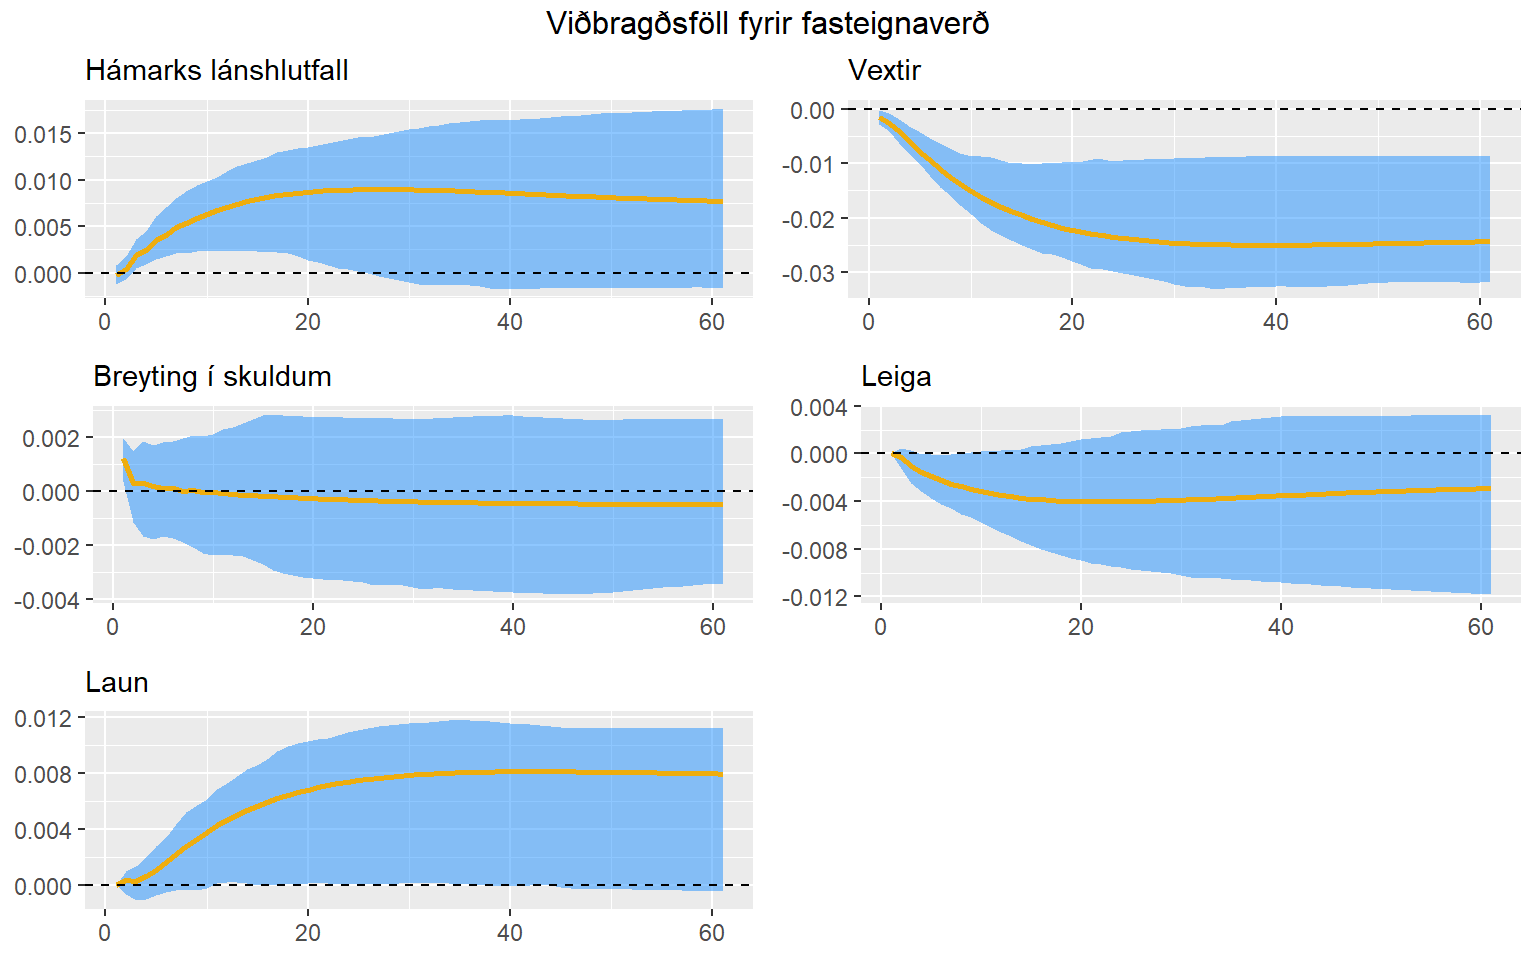
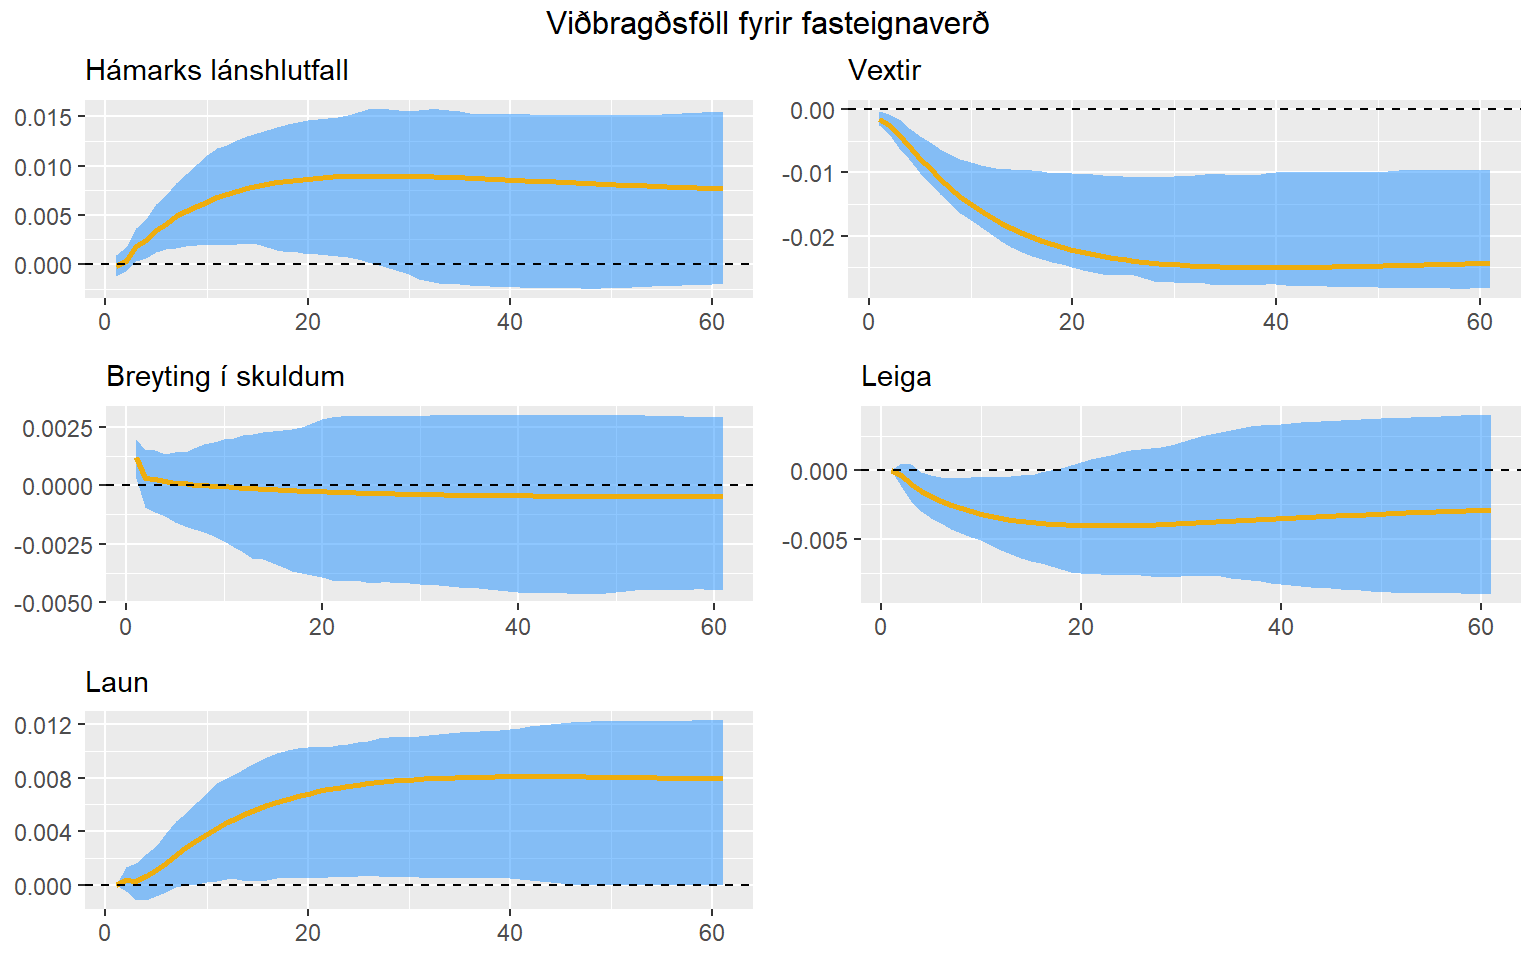
final

diff --git a/content/post/2019-10-26-líkan-af-íbúðarhúsnæði-á-höfuðborgarsvæðinu.html b/content/post/2019-10-26-líkan-af-íbúðarhúsnæði-á-höfuðborgarsvæðinu.html
@@ -1,8 +1,7 @@
 ---
 title: Líkan af íbúðarhúsnæði á höfuðborgarsvæðinu
 author: Viðar
-date: '2019-10-26'
-draft: true
+date: '2020-01-17'
 slug: líkan-af-íbúðarhúsnæði-á-höfuðborgarsvæðinu
 categories:
   - forecast
@@ -18,10 +17,10 @@ topics: []
 <script src="/rmarkdown-libs/kePrint/kePrint.js"></script>
 
 
-<p>Fyrir stuttu síðan tók ég saman gögn um hámarkshlutfall sem íslenskar fjármálastofnanir lána til fasteignakaupa. Hærra lánshlutfall þýðir að fasteignakaupendur þurfa að leggja til minna eigið fé við fasteignakaup en ella. Það gæti aukið eftirspurn eftir fasteignum og þanni þrýst upp verði. Hér að neðan verða gögnin skoðuð og stuðst við tölfræðilíkön, VAR eða VEC (hvort sem hentar betur), til að varpa ljósi á áhrif hærra lánshlutfalls á fasteignaverð. Þá mun ég einnig nota líköknin til að framkvæmar spár næstu 24 mánuðina.</p>
-<div id="gögn" class="section level2">
-<h2>Gögn</h2>
-<p>Gögnin sem ég nota eru fengin úr ólíkum áttum. Allt eru þetta mánaðarleg gögn. Fyrir verð á íbúðarhúsnæði nota ég vísitölu íbúðaverðs á höfuðborgarsvæðinu sem Þjóðskrá gefur út. Þá er ég með upplýsingar um skuldir heimilana sem ég fékk hjá Seðlabanka Íslands. Þetta eru allar skuldir heimila en ekki aðeins húsnæðisskuldir. Ég geng út frá því í greiningunni að þessi tímaröð og sú sem ætti aðeins við um lán til fasteignakaupa séu nátengdar (svo þarf ekki að vera). Þá er ég með upplýsingar um hámarks lánshlutfall sem bankarnir þrír ásamt Íbúðalánasjóði lána til fasteignakaupa, sjá <a href="https://drive.google.com/open?id=1rqTnfF3TyLHb_mClsCPYEfMnhj6oGmCc">hér</a>. Þessum gögnum safnaði ég af <a href="www.vefsafn.is">Vefsafn.is</a>. Ekki voru til samfelldar upplýsingar af vefsvæðum gömlu bankanna og því gat verið að ég hafði upplýsingar um lánshlutfall í október en síðan ekkert fyrr en í febrúar árið eftir. Ef breytingar áttu sér stað á tímabilinu þurfti ég að geta mér til um hvenær þær breytingar áttu sér stað. Athugasemdir um söfnun þessara gagna er að vinna í Excel skjalinu sem ég hlekkjaði á hér að ofan. Þá er ég með lægstu vexti sem eru í boði til fasteignakaupa, útborguð heildarlaun og vísitölu húsaleigu fyrir landið allt. Þetta eru ekki fullkomin gögn, t.d. væri betra að hafa vísitölu leiguhúsnæðis aðeins fyrir höfuðborgarsvæðið og alveg aftur til 1994.</p>
+<p>Fyrir stuttu síðan tók ég saman gögn um hámarkshlutfall sem íslenskar fjármálastofnanir lána til fasteignakaupa. Hærra lánshlutfall þýðir að fasteignakaupendur þurfa að leggja til minna eigið fé við fasteignakaup en ella. Það gæti aukið eftirspurn eftir fasteignum og þannig þrýst upp verði. Hér að neðan verða gögnin skoðuð og stuðst við tölfræðilíkön, VAR eða VEC (hvort sem hentar betur), til að varpa ljósi á áhrif hærra lánshlutfalls á fasteignaverð. Þá mun ég einnig nota líkönin til að framkvæmar spár næstu 24 mánuðina.</p>
+<div id="gögnin" class="section level2">
+<h2>Gögnin</h2>
+<p>Gögnin sem ég nota eru fengin úr nokkrum áttum. Allt eru þetta mánaðarleg gögn. Fyrir verð á íbúðarhúsnæði nota ég vísitölu íbúðaverðs á höfuðborgarsvæðinu sem Þjóðskrá gefur út. Þá er ég með upplýsingar um skuldir heimila sem ég fékk hjá Seðlabanka Íslands. Þetta eru allar skuldir heimila en ekki aðeins húsnæðisskuldir. Ég geng út frá því í greiningunni að þessi tímaröð og sú sem ætti aðeins við um lán til fasteignakaupa séu nátengdar (svo þarf ekki að vera). Þá er ég með upplýsingar um hámarks lánshlutfall sem bankarnir þrír ásamt Íbúðalánasjóði lána til fasteignakaupa, sjá <a href="https://drive.google.com/open?id=1rqTnfF3TyLHb_mClsCPYEfMnhj6oGmCc">hér</a>. Þessum gögnum safnaði ég af <a href="www.vefsafn.is">Vefsafn.is</a>. Ekki voru til samfelldar upplýsingar af vefsvæðum gömlu bankanna og því gat verið að ég væri með upplýsingar um lánshlutfall í október en síðan ekkert fyrr en í febrúar árið eftir. Ef breytingar áttu sér stað á tímabilinu þurfti ég að geta mér til um hvenær þær breytingar áttu sér stað. Athugasemdir um söfnun þessara gagna er að finna í Excel skjalinu sem ég hlekkjaði á hér að ofan. Þá er ég með lægstu vexti sem eru í boði til fasteignakaupa, útborguð heildarlaun og vísitölu húsaleigu fyrir landið allt. Þetta eru ekki fullkomin gögn, t.d. væri betra að hafa vísitölu leiguhúsnæðis aðeins fyrir höfuðborgarsvæðið og alveg aftur til 1994.</p>
 </div>
 <div id="grafísk-greining" class="section level2">
 <h2>Grafísk greining</h2>
@@ -29,8 +28,7 @@ topics: []
 <p><img src="/post/2019-10-26-líkan-af-íbúðarhúsnæði-á-höfuðborgarsvæðinu_files/figure-html/unnamed-chunk-1-1.png" width="768" /></p>
 <p>Næst sýni ég dreifingu eftir hámarks lánshlutfalli. Hér mætti einnig skoða meðallánshlutfall sem lánastofnanir buðu. Ég ákvað þó að fara þá leið í þessari greiningu að nota hæsta hlutfallið sem var í boði á hverjum tíma. Munurinn á hámarkshlutfalli og meðalhlutfalli (banka, lífeyrissjóða og ÍLS) er lítill.<br />
 Ég er almennt ekki hlynntur því að birta gröf sem sýnir samband tveggja breyta þegar vitað er að aðrar breytur kunna að hafa áhrif. Ástæðan er sú að það er auðvelt að sýna jákvætt samband milli tveggja breyta en sambandið hverfur eða jafnvel breytir um formerki við það eitt að taka tillit til þriðju breytunnar. Hér geri ég þó undantekningu með því að sýna hversu mikið fasteignaverð hefur hækkað á mismunandi tímum eftir því hvert hámarkslánshlutfall var.</p>
-<p>Neðangreint graf kallst box-plot. Box plot samanstendur af <em>hinges</em> og <em>whiskers</em>. Hinges eru efri og neðri mörk kassans. Efri mörkin eru efri fjórðungsmörk og neðri mörkin eru neðri fjórðungsmörk dreifingarinnar. Neðri fjórðungsmörk eru skilgreind á þann hátt að 25% gildanna (tólf mánað breyting fasteignaverð í þessu dæmi) eru undir neðri fjórðungsmörkum. Á sama hátt eru 25% gildanna yfir efri fjórðungsmörkunum.<br />
-Whiskers eru lóðréttu strikin sem koma upp úr og niður úr boxinu. Efra strikið nær frá efri mörkum boxins upp í hæsta gildið þó aldrei hærra en 1.5 x IQR (inter quartile range eða bil milli efri og neðri marka boxins), sama á við um neðra strikið. Gildi sem fara út fyrir <em>whiskers</em> kallst útlagar.</p>
+<p><em>Neðangreint graf kallst box-plot. Box plot samanstendur af hinges og whiskers. Hinges eru efri og neðri mörk kassans. Efri mörkin eru efri fjórðungsmörk og neðri mörkin eru neðri fjórðungsmörk dreifingarinnar. Neðri fjórðungsmörk eru skilgreind á þann hátt að 25% gildanna (tólf mánað breyting fasteignaverð í þessu dæmi) eru undir neðri fjórðungsmörkum. Á sama hátt eru 25% gildanna yfir efri fjórðungsmörkunum. Whiskers eru lóðréttu strikin sem koma upp úr og niður úr boxinu. Efra strikið nær frá efri mörkum boxins upp í hæsta gildið þó aldrei hærra en 1.5 x IQR (inter quartile range eða bil milli efri og neðri marka boxins), sama á við um neðra strikið. Gildi sem fara út fyrir whiskers kallst útlagar.</em></p>
 <p><img src="/post/2019-10-26-líkan-af-íbúðarhúsnæði-á-höfuðborgarsvæðinu_files/figure-html/unnamed-chunk-2-1.png" width="768" /></p>
 <p>Út frá myndunum að ofan er hægt að draga þá ályktun að þegar lánshlutfall er hærra, þá er tólf mánaða hækkun fasteignaverðs almennt hærri. Í það minnsta hefur fasteignaverð á höfuðborgarsvæðinu aldrei hækkað meira en 25% yfir tólf mánaða tímabil nema þegar hámarkslánshlutfallið var 100%.</p>
 <p>Gröf ein og sér svara því þó ekki fyllilega hver áhrif hærra lánshlutfalls er á fasteignaverð. Til að fá betra svar sný ég mér að tölfræðilíkönum.</p>
@@ -323,31 +321,31 @@ r = 0 |
 </div>
 <div id="vec-líkan" class="section level1">
 <h1>VEC líkan</h1>
-<p>Fyrir ykkur sem slepptuð ítarefninu þá var niðurstaðan sú að vegna langtímasambands á milli launa og fasteignaverðs annars vegar og leigu og fasteignaverðs hinsvegar, þá væri best að styðjast við VEC líkan.</p>
+<p>Fyrir ykkur sem slepptuð ítarefninu þá var niðurstaðan sú að tvö langtímasambönd eru til staðar. Þar af leiðandi styðst ég við VEC líkan.</p>
 <p><em>Athugið. Gröfin að neðan sýna viðbragð fasteignaverðs á höfuðborgarsvæðinu vegna skells (e. shock) í fimm breytum. Bláa svæðið í kringum viðbragðsfallið er 80% öryggisbil. Ég hallast að bayesískri tölfræði og þar með er ég frekar gagnrýninn á öryggisbil. Auk þess sé ég ekki ástæðu til að nota 95% frekar en 80%. Þegar ég tala um að áhrif séu marktæk þá er ég vissulega að lesa í öryggisbilin.</em></p>
-<p>Það sem lesa má út úr viðbragðsföllunum er að hækkun hámarkshlutfalls leiðir til hærra fasteignaverðs og hærri vextir leiða til lægra fasteignaverðs. Það sem vekur athygli er mat líkansins á áhrifum aukinnar skuldsetningar. Áhrifin eru jákvæð fyrsta mánðinn en lítil sem engin eftir það. Ástæðan fyrir þessu kann að vera sú að hámarkslánshlutfall hækkar mikið fyrir hrun sem leiðir til aukinnar skuldsetningar. Áhrifin af aukinni skuldsetningu koma því hugsanlega fram að einhverju leyti í gegnum áhrif hámarkshlutfalls. Hitt sem kemur að óvart er áhrif leigu á fasteignaverð. Hér virðist líkanið pikka upp mikla hækkun leigu á sama tíma og verð fasteigna lækkaði töluvert eftir hrun. Hér mætti bæta við dummy-breytum sem ná hrun-tímabilið. Ástæðan fyrir því að ég geri það ekki hér er að það er kannski ekki auðvelt að skilgreina hvaða tímabil hrunið nær yfir. Þá virðast laun hafa áhrif til hækkunar. Ég skrifað um það áður (á öðrum vettvangi) að launahækkanir geti varla haft áhrif til hækkunar fasteignaverðs, í það minnsta ekki nema með mikilli töf. Ef laun hækka mikið á tíma t = 0 þá tekur tíma fyrir heimili að leggja til hliðar og safna fyrir íbúð. Launahækkun á tíma t = 0 leiðir þannig ekki til aukinnar eftirspurnar eftir fasteignum á tíma t = 0 (tími í mánuðum).</p>
+<p>Það sem lesa má út úr viðbragðsföllunum er að hækkun hámarkshlutfalls leiðir til hærra fasteignaverðs og hærri vextir leiða til lægra fasteignaverðs. Það sem vekur athygli er mat líkansins á áhrifum aukinnar skuldsetningar. Áhrifin eru jákvæð fyrsta mánðinn en lítil sem engin eftir það. Ástæðan fyrir þessu kann að vera sú að hámarkslánshlutfall hækkar mikið fyrir hrun sem leiðir til aukinnar skuldsetningar. Áhrifin af aukinni skuldsetningu koma því hugsanlega fram að einhverju leyti í gegnum áhrif hámarkshlutfalls. Hitt sem kemur að óvart er áhrif leigu á fasteignaverð. Hér virðist líkanið pikka upp mikla hækkun leigu á sama tíma og verð fasteigna lækkaði töluvert eftir hrun. Hér mætti bæta við dummy-breytum sem ná hrun-tímabilið. Ástæðan fyrir því að ég geri það ekki hér er að það er kannski ekki auðvelt að skilgreina hvaða tímabil hrunið nær yfir. Þá virðast laun hafa áhrif til hækkunar. Ég skrifað um það áður (á öðrum vettvangi) að launahækkanir geti varla haft áhrif til hækkunar fasteignaverðs, nema þá með mikilli töf. Ef laun hækka mikið á tíma t = 0 þá tekur tíma fyrir heimili að leggja til hliðar og safna fyrir íbúð. Launahækkun á tíma t = 0 leiðir þannig ekki til aukinnar eftirspurnar eftir fasteignum á tíma t = 1,…X, þar sem X er lág tala (mælt í mánuðum).</p>
 <p><img src="/post/2019-10-26-líkan-af-íbúðarhúsnæði-á-höfuðborgarsvæðinu_files/figure-html/vec_irf_plot-1.png" width="768" /></p>
 </div>
 <div id="vélarnám" class="section level1">
 <h1>Vélarnám</h1>
 <p>Önnur leið til að kanna áhrif tiltekinna breyta á fasteignaverð er að styðjast við vélarnám (e. machine learning). Það getur verið gagnlegt til að ná utan um ólínuleg sambönd ef þau eru til staðar. Ein slík aðferð er random forest. Fyrir þá sem vilja lesa sig til random forest (eða aðra algorithma) þá er bókin <em>An Introduction to Statistical Learning</em> mjög góð byrjun. Bókin er aðgengileg <a href="http://faculty.marshall.usc.edu/gareth-james/ISL/index.html">hér</a>.</p>
 <div id="variable-importance-með-random-forest-elastic-net-og-cubist" class="section level2">
-<h2>Variable importance með random forest, elastic net og Cubist</h2>
+<h2>Variable importance með Random Forest, Elastic Net og Cubist</h2>
 <p>Tree-based algorithmar líkt og random forest ráða illa við breytur sem trend-a. Því mun ég umbreyta vísitölunum í gagnasettinu þannig að þær lýsi tólf mánaða breytingu.
-Random forest er samansafn af þúsundum ákvarðanatrjáa. Trén geta verið nokkuð ólík hvert öðru þó sum geta verið eins. Trén eru ólík á þann hátt að ekki eru sömu breytur notaðar til að búa til ákvarðanatréð. Þaðan kemur ‘random’ þátturinn.<br />
+Random forest er samansafn af þúsundum ákvarðanatrjáa. Trén geta verið nokkuð ólík hvert öðru þó sum geta verið eins. Trén eru ólík á þann hátt að ekki eru sömu breytur notaðar til að búa til hvert ákvarðanatréð. Þaðan kemur ‘random’ þátturinn.<br />
 Elastic net er línulegt líkan sem notar regularization. Með regularization á ég við að algorithminn getu bæði skalað niður stuðlamatið (beturnar) eða hent breytum alveg út (skalað stuðlana alveg niður núll).<br />
 Cubist er í mjög stuttur, og eflaust ónákvæmu máli, samblanda af ákvarðanatré og línulegu líkani. Nokkuð ítarlega er farið í gegnum Cubist í bókinni <em>Applied predictive modeling</em>. <a href="https://static1.squarespace.com/static/51156277e4b0b8b2ffe11c00/t/56e3056a3c44d8779a61988a/1457718645593/cubist_BRUG.pdf">Hér</a> er kynning á Cubist eftir annan höfund bókarinnar.</p>
-<p>Grafið að neðan sýnir þrjú líkön. Random forest, Cubist og Elastic net. Cubist virðist overfit-a á training settið (erfitt að greina á milli Cubist og raun á grafinu). Líkönunum þremur tekst þó ekki að útskýra hækkunina sem á sér stað frá miðju ári 2016 fram í ársbyrjun 2018. Þarna er eflaust hækkun sem ekki er skýrð af þeim breytum sem notaðar eru í líkönunum. Gráa svæðið er sá hluti gagnanna sem ekki var notaður við að tune-a líkönin. Eftir miklu hækkunina virðist cubist ná best utan um breytingu fasteignaverðs.</p>
+<p>Grafið að neðan sýnir líkönin þrjú. Random forest, Cubist og Elastic net. Cubist virðist overfit-a á training settið (erfitt að greina á milli Cubist og raun á grafinu). Líkönunum þremur tekst þó ekki að útskýra hækkunina sem á sér stað frá miðju ári 2016 fram í ársbyrjun 2018 (hluti af test-settinu). Þarna er eflaust hækkun sem ekki er skýrð af þeim breytum sem notaðar eru í greiningunni. Gráa svæðið er sá hluti gagnanna sem ekki var notaður við að tune-a líkönin. Eftir miklu hækkunina virðist cubist ná best utan um breytingu fasteignaverðs.</p>
 <p><img src="/post/2019-10-26-líkan-af-íbúðarhúsnæði-á-höfuðborgarsvæðinu_files/figure-html/training_error-1.png" width="768" /></p>
 <p>Næsta graf sýnir hversu mikilvægar viðkomandi breytur voru til að spá fyrir um tólf mánaða breytingu fasteignaverðs. Breytan <strong>max_hlutfall</strong> tekur aðeins fjögur gildi: 65%, 80%, 85% og 100% og bý ég til dummy breytu fyrir öll gildin (one hot encoding). Athugið að mikilvægi breytanna segir ekkert til um hvort áhrifin voru jákvæð eða neikvæð. Nokkur munur er á hvaða breytur eru mikilvægar til að spá fyrir fasteignaverð.</p>
-<p>Vextir eru lang mikilvægasta breytan fyrir Elastic net til að spá fyrir um hækkun fasteignaverðs. <strong>max_hlutfall</strong>, og þá sérstaklega 100% og 80% hlutföllin sem dummy breytur auk vaxta voru þrjár mikilvægustu breyturnar fyrir random forest. Tólf mánaða breyting launa, vextir og breyting útlána voru þrjár mikilvægustu breyturnar yfrir Cubist.</p>
-<p>Þó niðurstöðurnar eru nokkuð ólíkar milli líkana þá má greina einhvern samhljóm. Til að mynda eru vextir alltaf meðal þriggja mikilvægustu breytanna. Random forest er eina líkanið sem styðst eingöngu við ákvarðanatré og á því eflaust auðveldast með að ná upplýsingum úr max_hlutfall breytunni sem breytir aðeins um gildi þrisvar sinnum.</p>
+<p>Vextir eru lang mikilvægasta breytan fyrir Elastic net til að spá fyrir um hækkun fasteignaverðs. <strong>max_hlutfall</strong>, og þá sérstaklega 100% og 80% hlutföllin sem dummy breytur auk vaxta voru þrjár mikilvægustu breyturnar fyrir random forest. Tólf mánaða breyting launa, vextir og breyting útlána voru þrjár mikilvægustu breyturnar fyrir Cubist.</p>
+<p>Þó niðurstöðurnar eru nokkuð ólíkar milli líkana þá má greina einhvern samhljóm. Til að mynda eru vextir alltaf meðal þriggja mikilvægustu breytanna. Random forest er eina líkanið sem styðst eingöngu við ákvarðanatré og á því eflaust auðveldast með að ná upplýsingum úr max_hlutfall breytunni sem breytir aðeins um gildi þrisvar sinnum á tímabilinu sem er til skoðunar.</p>
 <p><img src="/post/2019-10-26-líkan-af-íbúðarhúsnæði-á-höfuðborgarsvæðinu_files/figure-html/vip-1.png" width="768" /></p>
 </div>
 </div>
 <div id="spá-um-þróun-fasteignaverðs" class="section level1">
 <h1>Spá um þróun fasteignaverðs</h1>
-<p>Að ofan hef ég rýnt hvaða áhrif breyturnar hafa á fasteignaverð með VEC líkani. Einnig kannaði ég hvaða breytur voru mikilvægar til að útskýra fasteignaverð miðað við tvo öfluga algorithma. Að neðan mun ég nota VAR og VEC líkan til að framkvæma spá til næstu 12 mánaða.</p>
+<p>Að ofan hef ég kannað hvaða áhrif breyturnar hafa á fasteignaverð meðal annars með VEC líkani. Einnig kannaði ég hvaða breytur voru mikilvægar til að útskýra fasteignaverð miðað við þrjá öfluga algorithma vélarnáms. Að neðan mun ég nota VAR og VEC líkan til að framkvæma spá til næstu 24 mánaða.</p>
 <div id="spá-með-vec-líkani" class="section level2">
 <h2>Spá með VEC líkani</h2>
 <p>Hér er notað sama líka og notað var til að búa til viðbragðsföllin að ofan. Grafið sýnir spá 24 mánuði fram í tímann.
@@ -362,5 +360,5 @@ Cubist er í mjög stuttur, og eflaust ónákvæmu máli, samblanda af ákvarða
 </div>
 <div id="lokaorð" class="section level1">
 <h1>Lokaorð</h1>
-<p>Að ofan hef ég varið í gegnum hvaða áhrif mismunandi breytur hafa á fasteignaverð. Áhrifin eru meira og minna það sem búast mátti við. Spárnar eru nokkuð ólíkar þó báðar bendi til áframhaldandi hækkunar næstu tvö árin. Ég hef ekki enn lagt mat á gætði spánna. Slíkt væri hægt að gera með time series cross-validation. Það er töluvert stærra verkefni.</p>
+<p>Að ofan hef ég varið í gegnum hvaða áhrif mismunandi breytur hafa á fasteignaverð. Áhrifin eru meira og minna það sem búast mátti við. Vélarnáms algorithmarnir gáfu ólíka niðurstöðu um hvaða breytur voru mikilvægastar. Möguleg ástæða er tiltölulega lítið gagnasett sem algorithmarnir virðast sumir overfit-a. Spárnar með VAR og VEC líkönunum eru nokkuð ólíkar þó báðar bendi til áframhaldandi hækkunar næstu tvö árin. Ég hef ekki enn lagt mat á gæði spánna. Slíkt væri hægt að gera með time series cross-validation.</p>
 </div>
